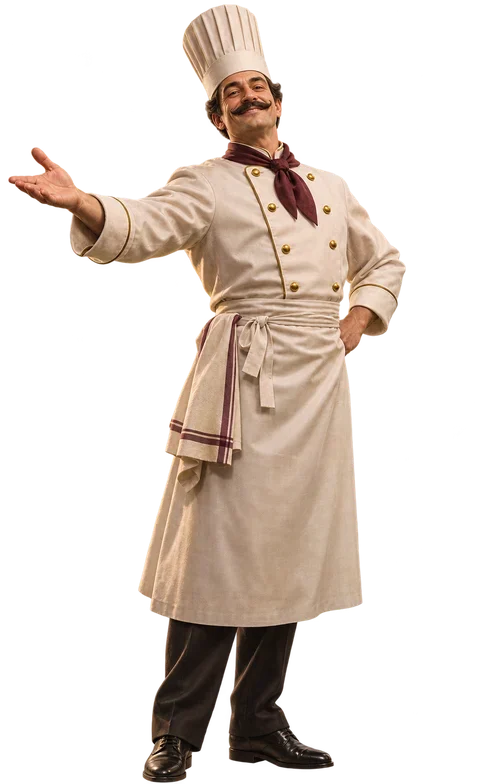
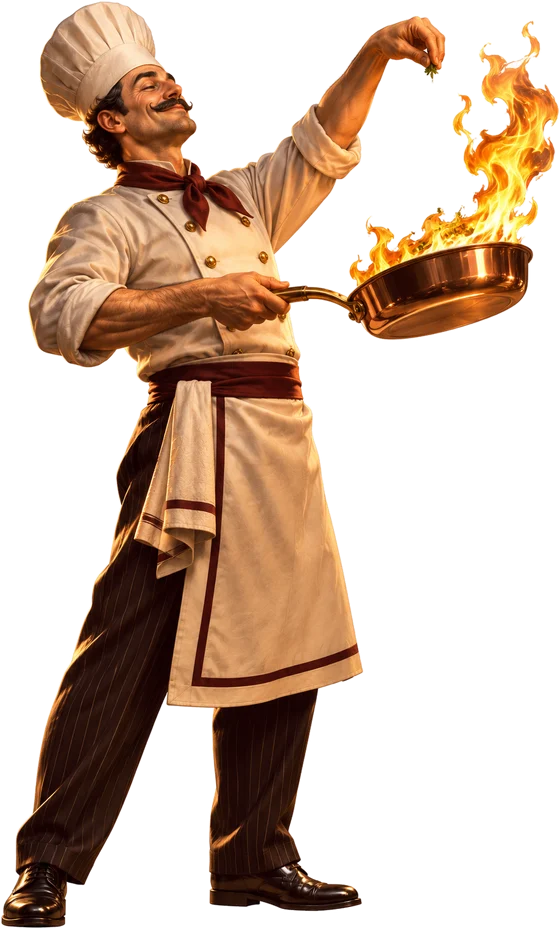
La Cloche : la vraie cuisine et le chef qui flambe
Claude-Session: https://claude.ai/code/session_01Vs3Q35NuqGK4HWxeJkBpbC

diff --git a/restaurant.css b/restaurant.css
@@ -54,12 +54,16 @@
 /* En cuisine (pendant l'intro) : le chef prépare le plat vedette de la manche. */
 .wr-cuisine { position: absolute; inset: 0; z-index: 6; overflow: hidden; background: #140806; animation: wr-cuisine 5s ease-in-out both; }
 @keyframes wr-cuisine { 0%, 28% { opacity: 0; } 36%, 92% { opacity: 1; } 100% { opacity: 0; } }
-.wr-cuisine-fond { position: absolute; inset: 0; width: 100%; height: 100%; object-fit: cover; filter: brightness(0.8); }
+.wr-cuisine-cadre { --lc: max(100cqw, 177.78cqh); position: absolute; left: 50%; top: 50%; width: var(--lc); height: calc(var(--lc) * 0.5625); translate: -50% -50%; }
+.wr-cuisine-fond { position: absolute; inset: 0; width: 100%; height: 100%; }
 .wr-cuisine-fond.haut { display: none; }
-.wr-cuisine-chef { position: absolute; left: 6%; bottom: 0; height: 92%; width: auto; filter: drop-shadow(8px 8px 18px rgba(0, 0, 0, 0.7)); animation: wr-chef 0.7s cubic-bezier(0.3, 1.3, 0.5, 1) 1.5s both; }
-.wr-cuisine-plat { position: absolute; left: 54%; bottom: 8%; width: 34%; height: auto; translate: -50% 0; filter: drop-shadow(0 10px 14px rgba(0, 0, 0, 0.7)) drop-shadow(0 0 20px rgba(255, 200, 100, 0.35)); animation: wr-vedette 0.8s cubic-bezier(0.3, 1.4, 0.5, 1) 1.9s both; }
-@keyframes wr-vedette { from { transform: translateY(20%) scale(0.6); opacity: 0; filter: brightness(2); } }
-.wr-cuisine-vapeur { position: absolute; left: 54%; bottom: 30%; width: 10%; height: auto; translate: -50% 0; opacity: 0; mix-blend-mode: screen; animation: wr-fumee 3s ease-out 2.2s infinite; }
+/* Derrière le comptoir : la zone s'arrête à son bord (71 % du cadre), les jambes du chef restent cachées. */
+.wr-cuisine-derriere { position: absolute; left: 0; top: 0; width: 100%; height: 71.2%; overflow: hidden; }
+.wr-cuisine-chef { position: absolute; left: 8%; top: 22.5%; height: 154.5%; width: auto; max-width: none; filter: drop-shadow(8px 8px 18px rgba(0, 0, 0, 0.6)); animation: wr-monte 0.8s cubic-bezier(0.3, 1.2, 0.5, 1) 1.5s both; }
+@keyframes wr-monte { from { transform: translateY(40%); } }
+.wr-cuisine-plat { position: absolute; left: 63%; top: 44%; width: 30%; height: auto; translate: -50% 0; filter: drop-shadow(0 10px 14px rgba(0, 0, 0, 0.6)) drop-shadow(0 0 22px rgba(255, 200, 100, 0.35)); animation: wr-vedette 0.8s cubic-bezier(0.3, 1.4, 0.5, 1) 1.9s both; }
+@keyframes wr-vedette { from { transform: translateY(-30%) scale(0.6); opacity: 0; filter: brightness(2); } }
+.wr-cuisine-vapeur { position: absolute; left: 63%; top: 18%; width: 8%; height: auto; translate: -50% 0; opacity: 0; mix-blend-mode: screen; animation: wr-fumee 3s ease-out 2.2s infinite; }
 .wr-cuisine-titre { position: absolute; right: 4%; top: 8%; display: grid; justify-items: center; gap: 2px; padding: 10px 22px 12px; border-radius: 16px; border: 2px solid #d6a84b; background: rgba(40, 10, 16, 0.9); text-align: center; box-shadow: 0 10px 24px rgba(0, 0, 0, 0.7); animation: wr-annonce 0.5s cubic-bezier(0.3, 1.6, 0.5, 1) 2.1s both; }
 .wr-cuisine-titre small { font-weight: 800; font-size: clamp(11px, 2.6cqw, 15px); color: #ecd9b4; }
 .wr-cuisine-titre strong { font-family: var(--titre); font-weight: 400; font-size: clamp(20px, 5cqw, 40px); color: #ffd774; text-shadow: 0 0 14px rgba(255, 200, 100, 0.7); }
@@ -102,11 +106,16 @@
   .wr-double, .wr-mien { font-size: calc(var(--lc) * 0.04); }
   .wr-nb { font-size: calc(var(--lc) * 0.022); }
   .wr-baron-zone { --ligne: var(--ligne-h); --bx: var(--x-h); --btop: var(--top-h); --bh: var(--h-h); --sens: var(--sens-h); }
+  .wr-cuisine-cadre { --lc: max(100cqw, 75cqh); height: calc(var(--lc) * 1.3333); top: auto; bottom: 0; translate: -50% 0; }
   .wr-cuisine-fond.large { display: none; }
   .wr-cuisine-fond.haut { display: block; }
-  .wr-cuisine-chef { left: -6%; height: 62%; }
-  .wr-cuisine-plat { left: 60%; bottom: 6%; width: 64%; }
-  .wr-cuisine-vapeur { left: 60%; bottom: 26%; width: 18%; }
+  .wr-cuisine-derriere { height: 66.6%; }
+  .wr-cuisine-chef { left: -8%; top: 47.5%; height: 105%; }
+  .wr-cuisine-plat { left: 70%; top: 54.5%; width: 50%; }
+  .wr-cuisine-vapeur { left: 70%; top: 38%; width: 12%; }
+  .wr-cuisine-titre { top: 2%; padding: 6px 16px 8px; }
+  .wr-cuisine-titre strong { font-size: clamp(18px, 4.6cqw, 30px); }
+  .wr-cuisine-titre b { font-size: clamp(22px, 5.6cqw, 40px); }
   .wr-cuisine-titre { left: 50%; right: auto; top: 6%; translate: -50% 0; width: max-content; max-width: 90%; }
   .wr-chef { height: 52%; right: -4%; }
   .wr-chef.ravi.gauche-l { left: auto; right: -4%; }

diff --git a/CasinoRestaurant.tsx b/CasinoRestaurant.tsx
@@ -217,11 +217,16 @@ export function BonusRestaurant({ v, b, nom, ouvert, choisir }: { v: VueBW; b: V
       {/* En cuisine : le chef prépare le plat vedette de la manche (le plus cher des six cloches). */}
       {nom === 'intro' && r?.vedette && (
         <div className="wr-cuisine" aria-live="polite">
-          <img className="wr-cuisine-fond large" src={IMG('wr-cuisine')} alt="" draggable={false} />
-          <img className="wr-cuisine-fond haut" src={IMG('wr-cuisine-portrait')} alt="" draggable={false} />
-          <img className="wr-cuisine-chef" src={IMG('wr-chef-cuisine')} alt="" draggable={false} />
-          <img className={`wr-cuisine-plat ${r.vedette}`} src={IMG(`wr-plat-${r.vedette}`)} alt="" draggable={false} />
-          {!reduit && <img className="wr-cuisine-vapeur" src={IMG('wr-vapeur')} alt="" draggable={false} />}
+          {/* La cuisine garde ses proportions ; le chef se tient derrière le comptoir (rogné à son bord), le plat posé dessus. */}
+          <div className="wr-cuisine-cadre">
+            <img className="wr-cuisine-fond large" src={IMG('wr-cuisine')} alt="" draggable={false} />
+            <img className="wr-cuisine-fond haut" src={IMG('wr-cuisine-portrait')} alt="" draggable={false} />
+            <div className="wr-cuisine-derriere">
+              <img className="wr-cuisine-chef" src={IMG('wr-chef-cuisine')} alt="" draggable={false} />
+            </div>
+            <img className={`wr-cuisine-plat ${r.vedette}`} src={IMG(`wr-plat-${r.vedette}`)} alt="" draggable={false} />
+            {!reduit && <img className="wr-cuisine-vapeur" src={IMG('wr-vapeur')} alt="" draggable={false} />}
+          </div>
           <div className="wr-cuisine-titre">
             <small>{tr('Ce soir, le chef prépare', 'Tonight, the chef is cooking')}</small>
             <strong>{tr(...NOMS_PLATS[r.vedette])}</strong>
